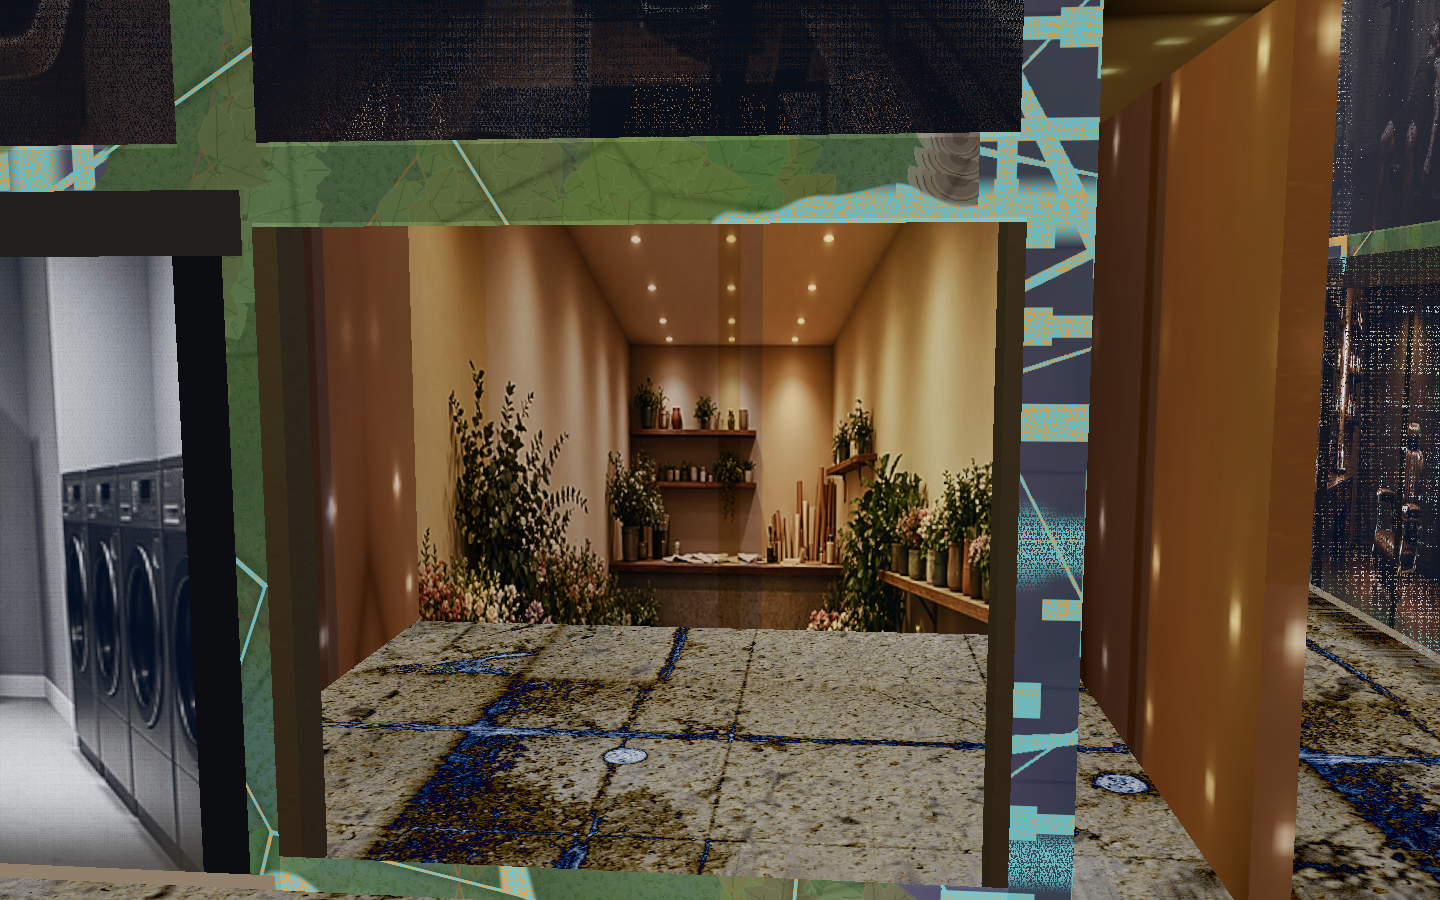
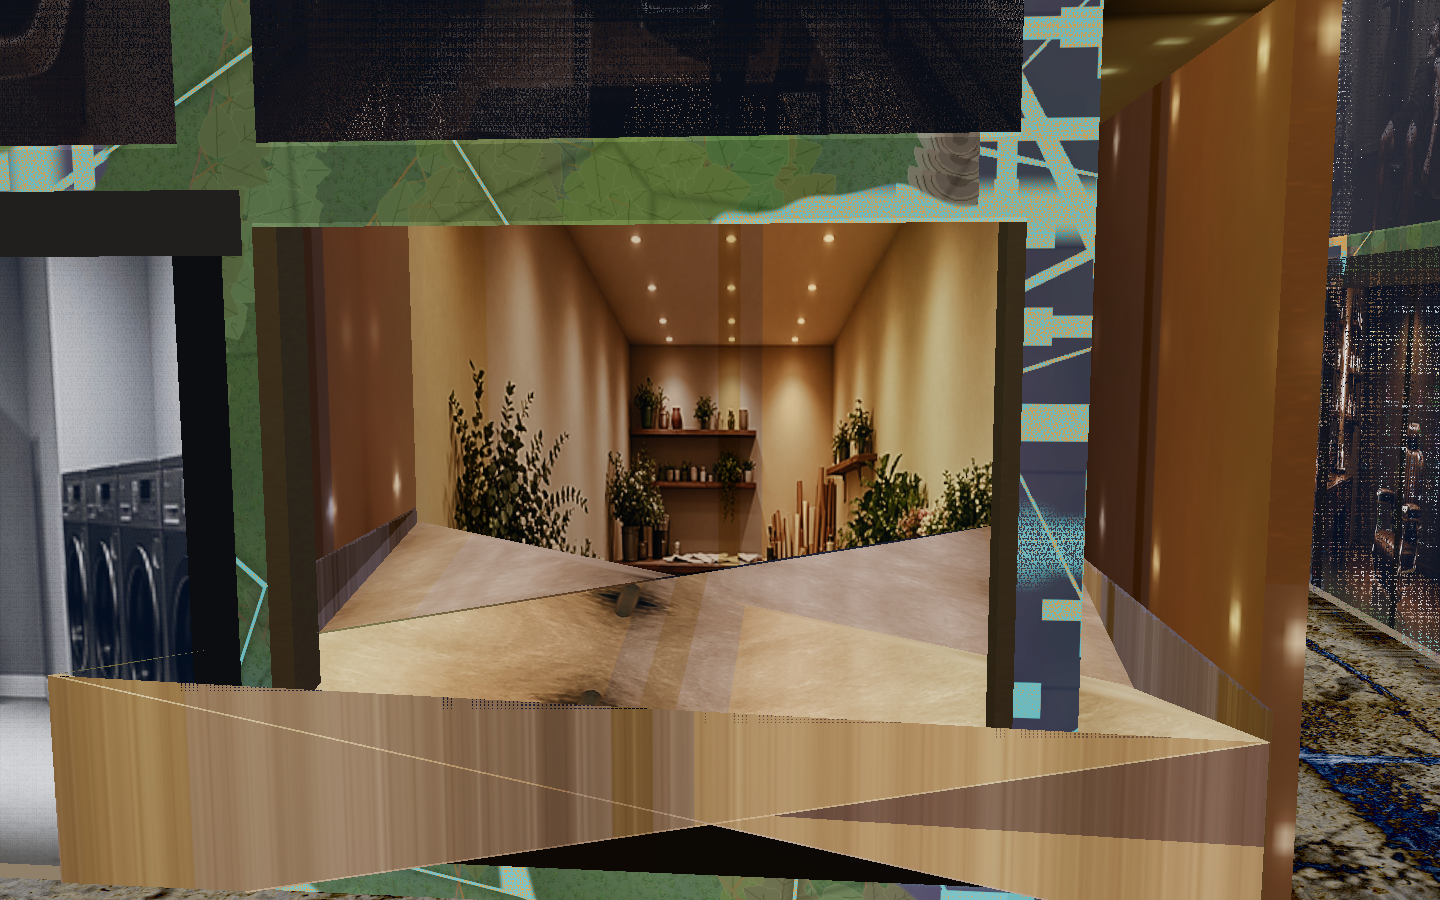
Keep promenade concrete outside the shop threshold.
The baked atlas floor sat under the lot pad and quay slab, so outdoor concrete showed through the fenestra. Lift that floor to the sill and clip those treads at the façade.

Changed region(s): [[0.0312, 0.56, 0.9062, 1.0]]

diff --git a/harbor.html b/harbor.html
@@ -724,6 +724,9 @@ const sidewalkMat = new THREE.ShaderMaterial({
     uFogDensity: { value: 0.018 },
     uStreetAtlas: { value: streetAtlasPlaceholder },
     uStreetOn: { value: 0 },
+    uBayClip: { value: 0 },
+    uBayMin: { value: new THREE.Vector3() },
+    uBayMax: { value: new THREE.Vector3() },
   },
   vertexShader: /* glsl */`
     varying vec2 vUv;
@@ -740,9 +743,15 @@ const sidewalkMat = new THREE.ShaderMaterial({
     varying vec3 vWorldPos;
     uniform vec3 uFogColor;
     uniform float uFogDensity;
+    uniform float uBayClip;
+    uniform vec3 uBayMin;
+    uniform vec3 uBayMax;
     ${NOISE_GLSL}
     ${STREET_CELL_GLSL}
     void main(){
+      // Lot pad shares this tread. Keep it out of the one shop interior.
+      if (uBayClip > 0.5 && vWorldPos.x > uBayMin.x && vWorldPos.x < uBayMax.x
+          && vWorldPos.z > uBayMin.z && vWorldPos.z < uBayMax.z) discard;
       vec3 col;
       if (uStreetOn < 0.5) {
         col = vec3(0.14, 0.145, 0.17);
@@ -2392,6 +2401,60 @@ function shopFenestraCell(halfAlong) {
   }
   return best;
 }
+// AtlasFloor is one glTF primitive. Its top sits on local y=0, which the
+// opening fit places under the promenade. Slide that primitive up and pull
+// its street edge out to the façade plane.
+function liftAtlasFloor(root, worldY, facadeLocalZ) {
+  root.updateMatrixWorld(true);
+  const s = root.scale.x || 1;
+  root.traverse((obj) => {
+    if (!obj.isMesh || !obj.geometry) return;
+    const mats = Array.isArray(obj.material) ? obj.material : [obj.material];
+    const geo = obj.geometry;
+    const pos = geo.getAttribute('position');
+    if (!pos) return;
+    const index = geo.getIndex();
+    const groups = geo.groups && geo.groups.length
+      ? geo.groups
+      : [{ start: 0, count: index ? index.count : pos.count, materialIndex: 0 }];
+    const ids = [];
+    for (const g of groups) {
+      const mat = mats[g.materialIndex] || mats[0];
+      if (!mat || mat.name !== 'AtlasFloor') continue;
+      const end = g.start + g.count;
+      if (index) {
+        for (let i = g.start; i < end; i++) ids.push(index.getX(i));
+      } else {
+        for (let i = g.start; i < end; i++) ids.push(i);
+      }
+    }
+    if (!ids.length) return;
+    let maxY = -1e9;
+    let maxZ = -1e9;
+    for (let k = 0; k < ids.length; k++) {
+      maxY = Math.max(maxY, pos.getY(ids[k]));
+      maxZ = Math.max(maxZ, pos.getZ(ids[k]));
+    }
+    const delta = (worldY - root.position.y) / s - maxY;
+    const lip = facadeLocalZ + 0.01;
+    for (let k = 0; k < ids.length; k++) {
+      const i = ids[k];
+      pos.setY(i, pos.getY(i) + delta);
+      if (pos.getZ(i) > maxZ - 0.025) pos.setZ(i, Math.max(pos.getZ(i), lip));
+    }
+    pos.needsUpdate = true;
+    geo.computeVertexNormals();
+    if (geo.boundingSphere) geo.computeBoundingSphere();
+    if (geo.boundingBox) geo.computeBoundingBox();
+    obj.frustumCulled = false;
+    mats.forEach((mat) => {
+      if (!mat || mat.name !== 'AtlasFloor') return;
+      mat.polygonOffset = true;
+      mat.polygonOffsetFactor = -2;
+      mat.polygonOffsetUnits = -2;
+    });
+  });
+}
 function mountQuayBakeBay() {
   const base = new URL('./07-advanced-assets/a01-bake/', import.meta.url);
   const texLoader = new THREE.TextureLoader();
@@ -2463,6 +2526,29 @@ function mountQuayBakeBay() {
     const worldX = box.x + uCenter;
     const faceZ = box.z + box.d * 0.5;
     root.position.set(worldX, holeCy - openCy * s, faceZ - 0.03);
+    // Lot pad tops out near y=0.058 and the quay slab sits at y=0.04.
+    // The baked floor is at local y=0, which lands below both and leaves
+    // outdoor concrete in the opening. Raise the atlas floor above that
+    // tread and run its lip to the façade so the interior meets the sill.
+    const floorY = 0.075;
+    liftAtlasFloor(root, floorY, (faceZ - root.position.z) / s);
+    const roomW = meta.roomW || 2.4;
+    const roomD = meta.roomD || 2.1;
+    const bayMin = new THREE.Vector3(
+      worldX - roomW * s * 0.5 - 0.02,
+      0,
+      faceZ - roomD * s - 0.06
+    );
+    const bayMax = new THREE.Vector3(
+      worldX + roomW * s * 0.5 + 0.02,
+      1,
+      faceZ - 0.012
+    );
+    for (const mat of [quayMat, sidewalkMat]) {
+      mat.uniforms.uBayClip.value = 1;
+      mat.uniforms.uBayMin.value.copy(bayMin);
+      mat.uniforms.uBayMax.value.copy(bayMax);
+    }
     scene.add(root);
     buildingMat.uniforms.uBakeBay.value = box.i;
     buildingMat.uniforms.uBakeCenter.value = uCenter;
@@ -2472,6 +2558,7 @@ function mountQuayBakeBay() {
     window.__harborBakeBay = {
       i: box.i, x: box.x, z: box.z, w: box.w, d: box.d, s,
       col: cell.col, center: uCenter, worldX, half: uHalf, bot: uBot, top: uTop,
+      floorY, faceZ,
     };
     if (wantFrame && controls) {
       // Eye on this one cell, not the massing center (that center is the pier).
@@ -3018,6 +3105,9 @@ const quayMat = new THREE.ShaderMaterial({
     uTime: { value: 0 },
     uPointer: { value: new THREE.Vector2(0, 0) },
     uAmp: { value: freezeMotion ? 0 : 0.1 },
+    uBayClip: { value: 0 },
+    uBayMin: { value: new THREE.Vector3() },
+    uBayMax: { value: new THREE.Vector3() },
   },
   vertexShader: /* glsl */`
     uniform float uTime;
@@ -3043,11 +3133,18 @@ const quayMat = new THREE.ShaderMaterial({
   fragmentShader: /* glsl */`
     uniform float uTime;
     uniform vec2 uPointer;
+    uniform float uBayClip;
+    uniform vec3 uBayMin;
+    uniform vec3 uBayMax;
     varying vec2 vUv;
     varying vec3 vPos;
     varying vec3 vWorldPos;
     ${NOISE_GLSL}
     void main(){
+      // Promenade stops at the shop threshold. The slab otherwise runs
+      // through the façade and reads as concrete inside the bay.
+      if (uBayClip > 0.5 && vWorldPos.x > uBayMin.x && vWorldPos.x < uBayMax.x
+          && vWorldPos.z > uBayMin.z && vWorldPos.z < uBayMax.z) discard;
       vec3 stone = vec3(0.08, 0.09, 0.13);
       float grain = fbm(vUv * 18.0 + uTime * 0.05);
       stone += grain * 0.045;

diff --git a/NOTES-ADVANCED-A01.md b/NOTES-ADVANCED-A01.md
@@ -80,7 +80,7 @@ Headless Blender 4.2 `Image.save()` writes a black PNG for generated float image
 
 The façade grid is shop | pier | shop. `faceAlong` is metres from the massing center, and cell 0 is `[0, 0.76)`, so x = 0 is the pier between two shops, not the middle of a bay. An earlier hole used `abs(faceAlong) <= uBakeHalf` and sat across that pier, reading as a third room between two atlas stickers. The hole is now one cell's glass only (shop mullion 0.04 / 0.045, plinth at 0.12 m), and the GLB opening is scaled and shifted onto that same rect. The neighboring shop pane and the pier stay on the atlas path.
 
-The GLB interior is `shop-atlas.png` cell 6 — the same ground-floor sheet as the neighboring shop stickers (`uShopAtlas`), not a parallel plaster set. Harbor and the drill keep `lightMapIntensity` at `1.55` on materials named `Atlas*` so that photograph stays in the sticker range. The bay floor is that cell's interior foreground, not promenade concrete.
+The GLB interior is `shop-atlas.png` cell 6 — the same ground-floor sheet as the neighboring shop stickers (`uShopAtlas`), not a parallel plaster set. Harbor and the drill keep `lightMapIntensity` at `1.55` on materials named `Atlas*` so that photograph stays in the sticker range. The bay floor is that cell's interior foreground. The opening fit used to leave that floor under the lot pad and the quay slab, so promenade concrete showed through the glass. Harbor lifts `AtlasFloor` above that tread and clips the quay and sidewalk shaders to the façade, so outdoor concrete stops at the threshold.
 
 Street ground, deck plank atlas, prop wear, fleet, lamp props, water, pennants, and buoyancy/physics are untouched. If the GLB fails to load, `uBakeBay` stays `-1` and every pane stays on the atlas path.
 
